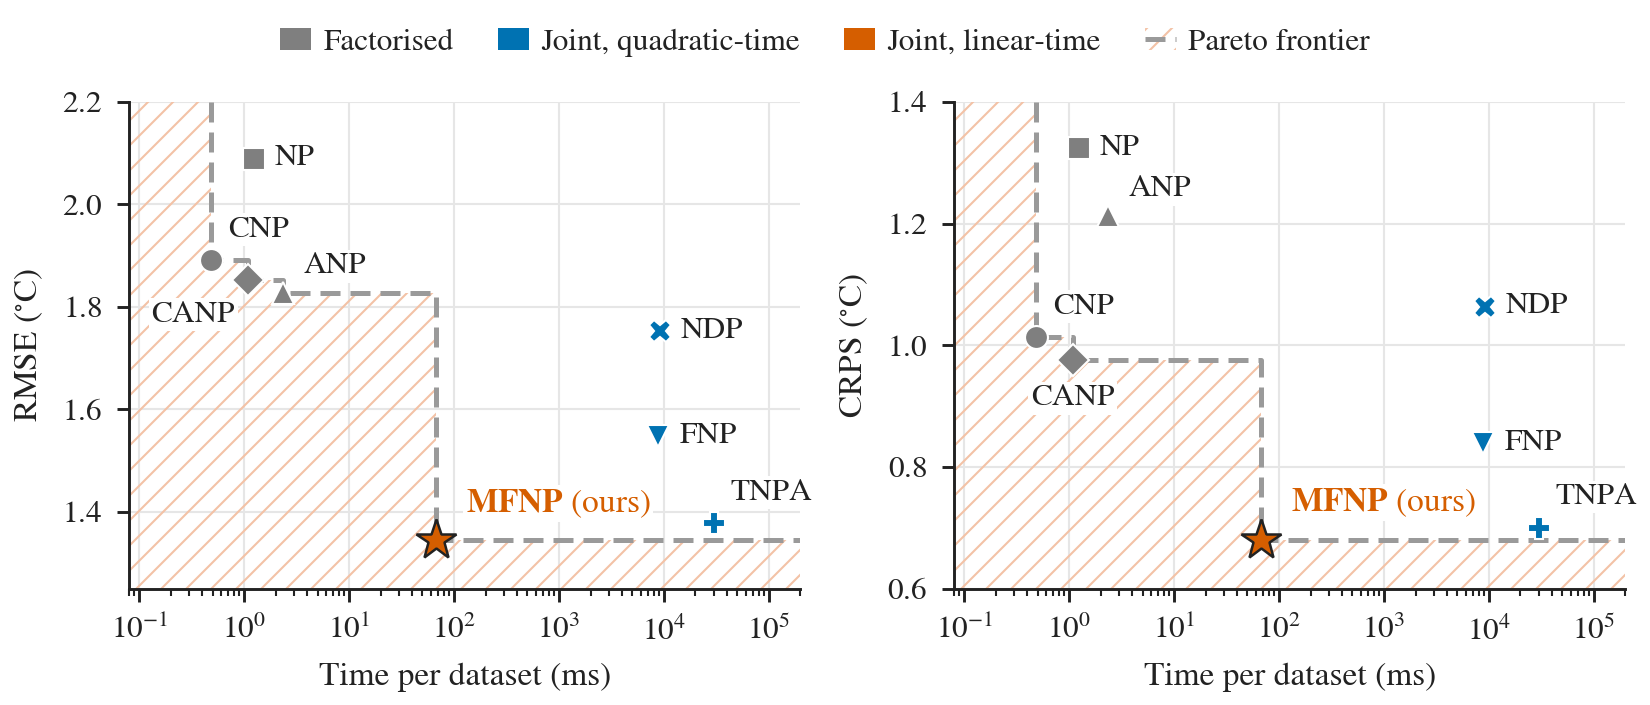
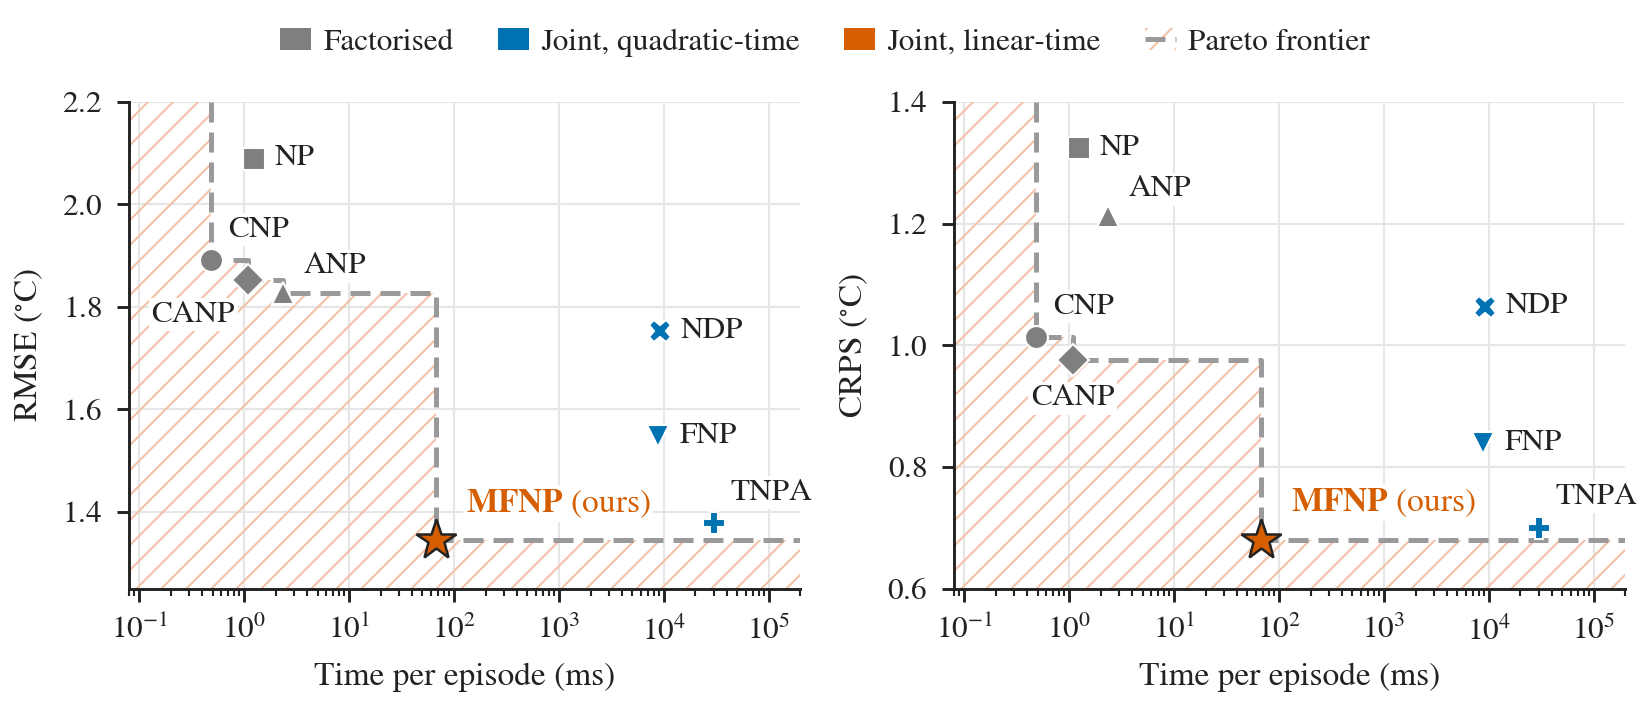
Adjust Pareto plot labels and regenerate figures

Changed region(s): [[0.68, 0.9362, 0.8964, 0.9986], [0.1855, 0.9362, 0.3709, 0.9986]]

diff --git a/plotting/maps.py b/plotting/maps.py
@@ -183,10 +183,9 @@ def draw_histogram(ax, region, day, show_count):
 
 
 def figure(ratio):
-    """The figure and its axes, laid out in inches. Truth and prediction sit side by side with the
-    colour bar on their right, and the error map sits below them with the histogram on its right.
-    A region wider than it is tall gets an error map wider than the maps above it. Otherwise the
-    figure is at most 5 in high and centred."""
+    """Figure and axes in inches: truth, prediction and colour bar on top; error map and
+    histogram below. Wide regions get a wider error map; otherwise the figure is at most 5 in
+    high."""
     bar_w, bar_labels, bottom = 0.07, 0.42, 0.02
     if ratio > 1:
         gap, bar_gap, title, row_gap = 0.06, 0.10, 0.16, 0.06

diff --git a/plotting/pareto.py b/plotting/pareto.py
@@ -1,4 +1,4 @@
-"""Time per dataset against RMSE and CRPS for one region, with the Pareto frontier."""
+"""Time per episode against RMSE and CRPS for one region, with the Pareto frontier."""
 
 import matplotlib.pyplot as plt
 import numpy as np
@@ -103,7 +103,7 @@ def panel(ax, results, region, metric):
     ax.xaxis.set_major_locator(LogLocator(base=10, numticks=10))
     ax.xaxis.set_minor_locator(LogLocator(base=10, subs=np.arange(2, 10), numticks=20))
     ax.xaxis.set_minor_formatter(NullFormatter())
-    ax.set_xlabel("Time per dataset (ms)")
+    ax.set_xlabel("Time per episode (ms)")
     ax.set_ylabel(f"{metric.upper()} ({DEG})")
     ax.grid(True, which="major", color="#e6e6e6", lw=0.5)
     ax.set_axisbelow(True)
